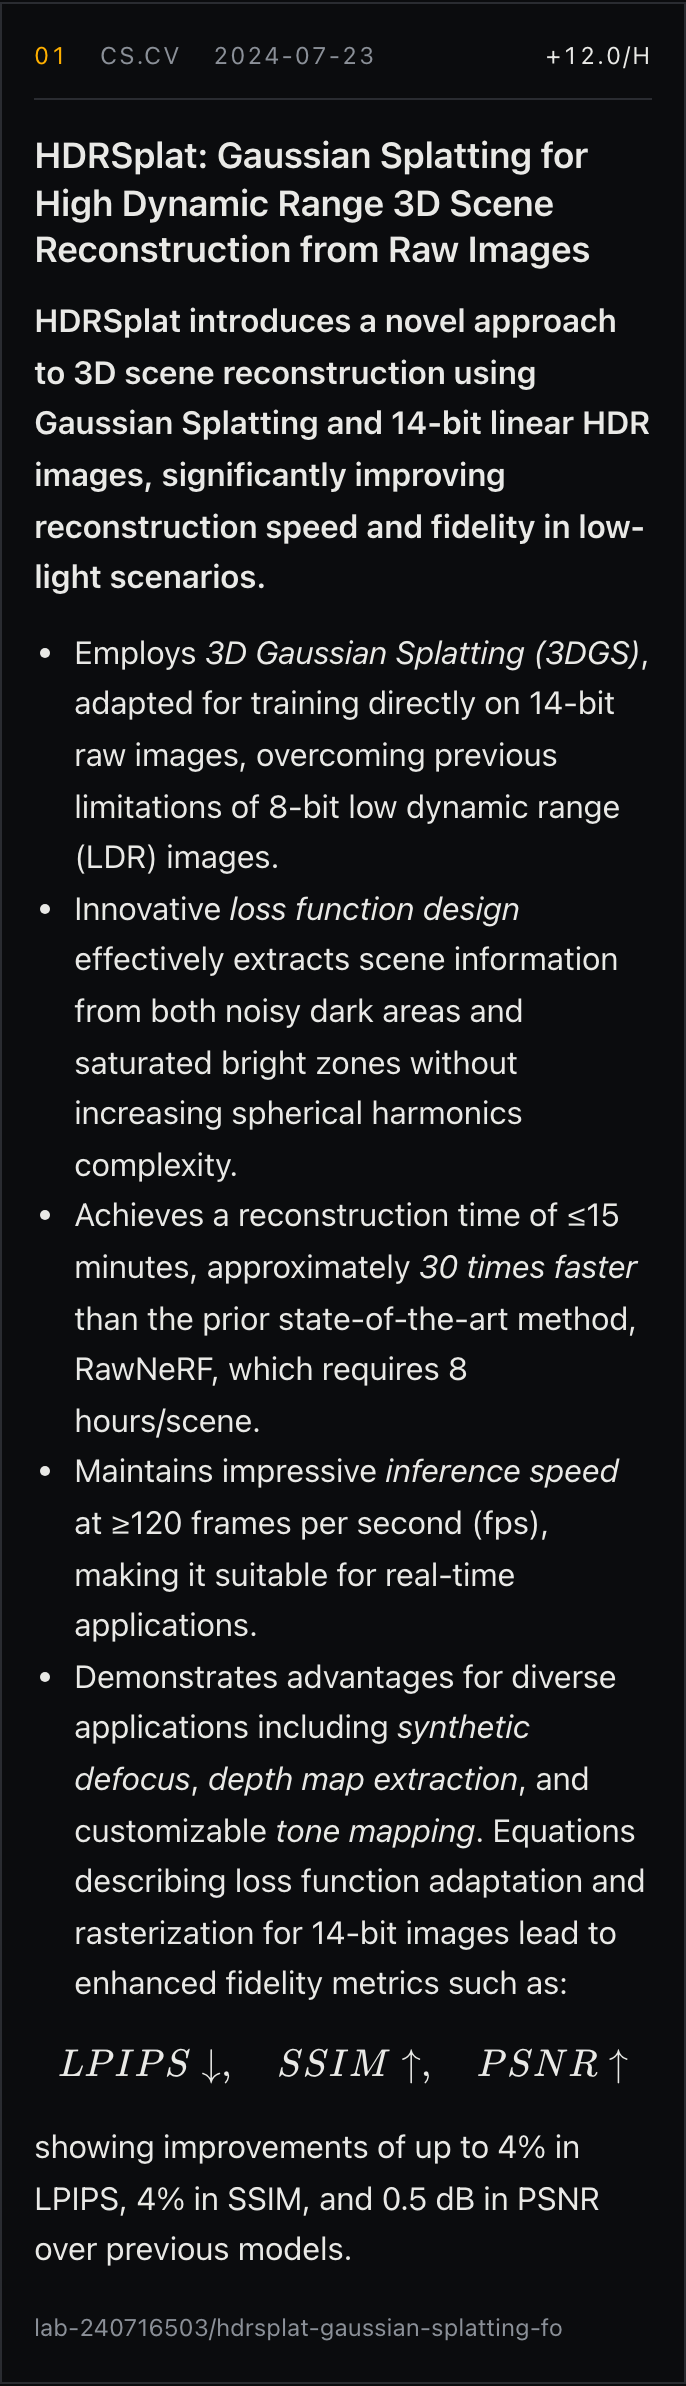
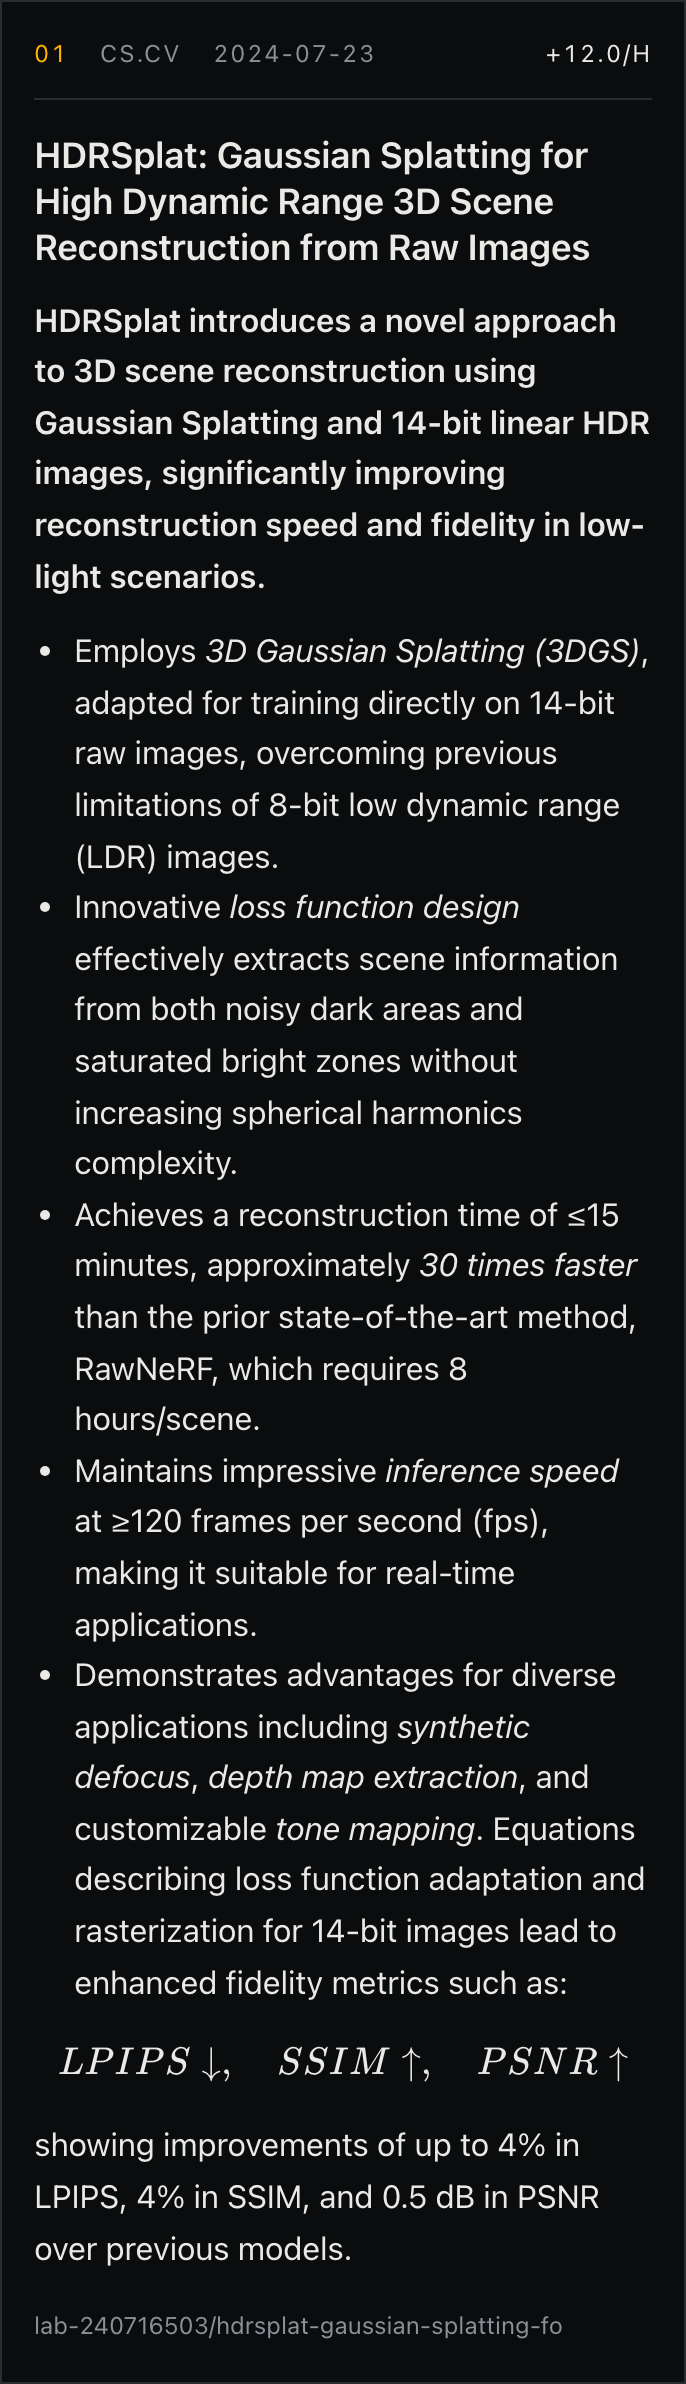
feat(ranking): point at the live API, empty-window fallback, null-safe stats, phone controls
- Production default VITE_API_BASE_URL is the Cloud Run service.
- Most stars always asks for window=all (the window control is disabled).
- Empty windowed results offer 'Show all time'; hourly_rate may be null.
- Phone layout: legends above full-width option grids.
- e2e: ranking spec (mock) and live spec (E2E_API=live / E2E_BASE_URL).

diff --git a/e2e/ranking.spec.js b/e2e/ranking.spec.js
@@ -1,0 +1,92 @@
+// F5: ranking controls against the mock API.
+import { test, expect } from '@playwright/test';
+import { openPage } from './helpers';
+
+const apiRequest = (page) => page.waitForRequest((r) => r.url().includes('/top_papers'));
+const params = (req) => Object.fromEntries(new URL(req.url()).searchParams);
+const ranks = (page) => page.locator('.card .rank').allTextContents();
+
+test('default ranking is trending + 30d and loads page 1', async ({ browser }) => {
+  const { context, page, errors } = await openPage(browser);
+  const req = apiRequest(page);
+  await page.goto('/');
+  expect(params(await req)).toMatchObject({ sort: 'trending', window: 'month', page: '1', per_page: '10' });
+  await expect(page.getByRole('radio', { name: 'Trending' })).toBeChecked();
+  await expect(page.getByRole('radio', { name: '30d' })).toBeChecked();
+  await expect(page.locator('.card')).toHaveCount(10);
+  expect((await ranks(page))[0]).toBe('01');
+  expect(errors).toEqual([]);
+  await context.close();
+});
+
+test('changing sort updates the URL, refetches and resets the list; back restores', async ({ browser }) => {
+  const { context, page, errors } = await openPage(browser);
+  await page.goto('/');
+  await expect(page.locator('.card')).toHaveCount(10);
+  await page.mouse.wheel(0, 20000);
+  await expect(page.locator('.card')).toHaveCount(20);
+
+  const req = apiRequest(page);
+  await page.getByText('Stars gained', { exact: true }).click();
+  expect(params(await req)).toMatchObject({ sort: 'gained', window: 'month', page: '1' });
+  await expect(page).toHaveURL(/\?sort=gained&window=month$/);
+  await expect(page.locator('.card')).toHaveCount(10);
+  expect((await ranks(page))[0]).toBe('01');
+  expect(await page.evaluate(() => window.scrollY)).toBeLessThan(2000);
+
+  await page.goBack();
+  await expect(page).toHaveURL(/\/$/);
+  await expect(page.getByRole('radio', { name: 'Trending' })).toBeChecked();
+  await expect(page.locator('.card')).toHaveCount(10);
+  expect(errors).toEqual([]);
+  await context.close();
+});
+
+test('keyboard: arrow keys move through sorts; window is disabled for Most stars', async ({ browser }) => {
+  const { context, page } = await openPage(browser);
+  await page.goto('/');
+  await page.getByRole('radio', { name: 'Trending' }).focus();
+  const req = apiRequest(page);
+  await page.keyboard.press('ArrowRight');
+  await expect(page.getByRole('radio', { name: 'Most stars' })).toBeChecked();
+  expect(params(await req)).toMatchObject({ sort: 'stars', window: 'all' });
+  await expect(page.getByRole('radio', { name: '30d' })).toBeDisabled();
+  await expect(page).toHaveURL(/\?sort=stars&window=month$/);
+  await context.close();
+});
+
+test('deep link restores controls', async ({ browser }) => {
+  const { context, page } = await openPage(browser);
+  const req = apiRequest(page);
+  await page.goto('/?sort=new&window=all');
+  expect(params(await req)).toMatchObject({ sort: 'new', window: 'all' });
+  await expect(page.getByRole('radio', { name: 'Newest' })).toBeChecked();
+  await expect(page.getByRole('radio', { name: 'All' })).toBeChecked();
+  await context.close();
+});
+
+test('error state offers retry', async ({ browser }) => {
+  const { context, page } = await openPage(browser);
+  await page.route('**/top_papers**', (r) => r.fulfill({ status: 500, contentType: 'application/json', body: '{"error":"boom"}' }));
+  await page.goto('/');
+  await expect(page.getByRole('status')).toContainText('Could not load papers (HTTP 500: boom)');
+  await page.unroute('**/top_papers**');
+  await page.getByRole('button', { name: 'Retry' }).click();
+  await expect(page.locator('.card')).toHaveCount(10);
+  await context.close();
+});
+
+test('empty windowed result offers all time', async ({ browser }) => {
+  const { context, page } = await openPage(browser);
+  await page.route('**/top_papers**', (r) => {
+    const q = new URL(r.request().url()).searchParams;
+    if (q.get('window') === 'all') return r.fallback();
+    return r.fulfill({ contentType: 'application/json', body: JSON.stringify({ page: 1, per_page: 10, sort: q.get('sort'), window: q.get('window'), total: 0, repos: [] }) });
+  });
+  await page.goto('/');
+  await expect(page.getByRole('status')).toContainText('No papers in this window.');
+  await page.getByRole('button', { name: 'Show all time' }).click();
+  await expect(page).toHaveURL(/\?window=all$|\?sort=trending&window=all$/);
+  await expect(page.locator('.card')).toHaveCount(10);
+  await context.close();
+});

diff --git a/e2e/live.spec.js b/e2e/live.spec.js
@@ -1,0 +1,46 @@
+// Live API (or the deployed site): data loads, ranking switches work, LaTeX
+// renders, at 375 px and 1280 px in both themes. Screenshots go to
+// docs/screenshots/<target>-<width>-<theme>.png.
+import { test, expect } from '@playwright/test';
+import { VIEWPORTS, openPage } from './helpers';
+
+const target = process.env.E2E_BASE_URL ? 'deployed' : 'live';
+const katexErrors = (page) => page.locator('.card .katex-error, .card .katex [style*="color:#cc0000"]').count();
+
+for (const theme of ['light', 'dark']) {
+  for (const [name, viewport] of Object.entries(VIEWPORTS)) {
+    test(`${target} ${name} ${theme}`, async ({ browser }) => {
+      const { context, page, errors } = await openPage(browser, { theme, viewport });
+
+      // Default view: trending + 30d. With 2024 seed data this is empty and
+      // offers all time; once the jobs run it has cards. Accept either.
+      await page.goto('/');
+      const status = page.getByRole('status');
+      await expect(page.locator('.card').first().or(status.getByRole('button', { name: 'Show all time' }))).toBeVisible({ timeout: 30_000 });
+      if (await status.getByRole('button', { name: 'Show all time' }).isVisible()) {
+        await page.screenshot({ path: `docs/screenshots/${target}-${name}-${theme}-empty-window.png` });
+        await status.getByRole('button', { name: 'Show all time' }).click();
+      }
+      await expect(page.locator('.card')).toHaveCount(10, { timeout: 30_000 });
+      // Capture before any long scroll: headless captures after scrolling
+      // back to the top come out blank above the fold.
+      await page.screenshot({ path: `docs/screenshots/${target}-${name}-${theme}.png` });
+
+      for (const sort of ['Most stars', 'Stars gained', 'Newest', 'Trending']) {
+        const first = await page.locator('.card-title').first().textContent();
+        await page.getByText(sort, { exact: true }).click();
+        await expect(page.locator('.card')).toHaveCount(10, { timeout: 30_000 });
+        if (sort !== 'Trending') await expect(page.locator('.card-title').first()).not.toHaveText(first);
+      }
+      await page.mouse.wheel(0, 30000);
+      await expect(page.locator('.card')).toHaveCount(20, { timeout: 30_000 });
+
+      expect(await page.locator('.card .katex').count()).toBeGreaterThan(0);
+      console.log(`[${name} ${theme}] KaTeX error nodes in 20 cards: ${await katexErrors(page)}`);
+      expect(await page.evaluate(() => document.documentElement.scrollWidth - window.innerWidth)).toBeLessThanOrEqual(0);
+
+      expect(errors).toEqual([]);
+      await context.close();
+    });
+  }
+}

diff --git a/playwright.config.js b/playwright.config.js
@@ -1,12 +1,23 @@
 import { defineConfig, devices } from '@playwright/test';
 
 // Headless Chromium only (Eric uses this machine while tests run).
-// E2E_BASE_URL=https://frontier-beat.github.io runs the suite against a
-// deployed site instead of the local dev server + mock API.
+//   npm run test:e2e                        mock API: fixtures, cards, ranking
+//   E2E_API=live npm run test:e2e           dev server against the live API
+//   E2E_BASE_URL=https://frontier-beat.github.io npm run test:e2e   deployed site
+export const LIVE_API = 'https://api-rcvqmjv3ua-ue.a.run.app';
 const external = process.env.E2E_BASE_URL;
+const live = Boolean(external || process.env.E2E_API === 'live');
+
+const devServer = (apiBase) => ({
+  command: 'npx vite --port 5173 --strictPort',
+  url: 'http://localhost:5173',
+  reuseExistingServer: false,
+  env: { VITE_API_BASE_URL: apiBase },
+});
 
 export default defineConfig({
   testDir: 'e2e',
+  ...(live ? { testMatch: 'live.spec.js' } : { testIgnore: 'live.spec.js' }),
   timeout: 120_000,
   workers: 1,
   reporter: 'list',
@@ -15,8 +26,8 @@ export default defineConfig({
     headless: true,
     ...devices['Desktop Chrome'],
   },
-  webServer: external ? undefined : [
+  webServer: external ? undefined : live ? [devServer(LIVE_API)] : [
     { command: 'node scripts/mock-api.mjs', url: 'http://localhost:8787/health', reuseExistingServer: false },
-    { command: 'npx vite --port 5173 --strictPort', url: 'http://localhost:5173', reuseExistingServer: false, env: { VITE_API_BASE_URL: 'http://localhost:8787' } },
+    devServer('http://localhost:8787'),
   ],
 });

diff --git a/src/App.jsx b/src/App.jsx
@@ -6,7 +6,7 @@ import lightLogo from './assets/light-logo.png';
 import darkLogo from './assets/dark-logo.png';
 import PaperList from './components/PaperList';
 import RankingControls from './components/RankingControls';
-import { DEFAULT_SORT, DEFAULT_WINDOW, SORTS, WINDOWS } from './api';
+import { DEFAULT_SORT, DEFAULT_WINDOW, SORTS, WINDOWS, effectiveWindow } from './api';
 
 const FixturePage = lazy(() => import('./components/FixturePage'));
 
@@ -56,6 +56,7 @@ export default function App() {
   const [dark, toggleTheme] = useTheme();
   const [ranking, setRanking] = useState(readRanking);
   const fixtures = new URLSearchParams(window.location.search).has('fixtures');
+  const apiWindow = effectiveWindow(ranking.sort, ranking.window);
 
   useEffect(() => {
     const onPop = () => setRanking(readRanking());
@@ -83,7 +84,12 @@ export default function App() {
         ) : (
           <>
             <RankingControls sort={ranking.sort} window={ranking.window} onChange={changeRanking} />
-            <PaperList key={`${ranking.sort}:${ranking.window}`} sort={ranking.sort} window={ranking.window} />
+            <PaperList
+              key={`${ranking.sort}:${apiWindow}`}
+              sort={ranking.sort}
+              window={apiWindow}
+              onShowAll={apiWindow === 'all' ? undefined : () => changeRanking({ sort: ranking.sort, window: 'all' })}
+            />
           </>
         )}
       </div>

diff --git a/src/App.css b/src/App.css
@@ -120,6 +120,9 @@ a:hover {
 
 .segments {
   display: flex;
+  gap: 1px; /* hairlines between options come from the background */
+  border: 1px solid var(--line);
+  background: var(--line);
 }
 
 .segments input {
@@ -131,22 +134,23 @@ a:hover {
 
 .segments span,
 .button {
-  display: inline-block;
+  display: block;
   padding: 6px 10px;
   border: 1px solid var(--line);
-  background: none;
+  background: var(--bg);
   color: inherit;
   font-family: inherit;
+  text-align: center;
+  white-space: nowrap;
   cursor: pointer;
 }
 
-.segments label + label span {
-  border-left: 0;
+.segments span {
+  border: 0;
 }
 
 .segments input:checked + span {
   background: var(--fg);
-  border-color: var(--fg);
   color: var(--bg);
 }
 
@@ -161,6 +165,10 @@ a:hover {
 
 .segmented:disabled span {
   cursor: not-allowed;
+}
+
+.button {
+  display: inline-block;
 }
 
 .button.icon {
@@ -292,6 +300,26 @@ a:hover {
 
   .logo {
     height: 28px;
+  }
+
+  /* Controls: legend above, options fill the column. */
+  .segmented {
+    display: block;
+    width: 100%;
+  }
+
+  .segmented legend {
+    float: none;
+    margin-bottom: 6px;
+  }
+
+  .segments {
+    display: grid;
+    grid-template-columns: repeat(4, 1fr);
+  }
+
+  .segmented:first-child .segments {
+    grid-template-columns: repeat(2, 1fr);
   }
 
   /* Phone: only the stat that matches the current sort. */

diff --git a/src/components/PaperCard.jsx b/src/components/PaperCard.jsx
@@ -2,6 +2,8 @@ import { Summary, Title } from './Markdown';
 import { WINDOWS } from '../api';
 
 const fmt = new Intl.NumberFormat('en-US');
+const fmtRate = (r) => (r >= 100 ? fmt.format(Math.round(r)) : r.toFixed(1));
+const isNum = (v) => typeof v === 'number' && Number.isFinite(v);
 const day = (iso) => (iso ? String(iso).slice(0, 10) : null);
 
 // Departure-board strip: rank, category, date on the left; the numbers on
@@ -9,9 +11,9 @@ const day = (iso) => (iso ? String(iso).slice(0, 10) : null);
 function Strip({ paper, rank, sort, window }) {
   const windowLabel = WINDOWS.find((w) => w.value === window)?.label;
   const stats = [
-    paper.star_count != null && { key: 'stars', text: `${fmt.format(paper.star_count)} stars` },
-    paper.hourly_rate > 0 && { key: 'trending', text: `+${paper.hourly_rate.toFixed(1)}/h` },
-    paper.stars_gained != null && { key: 'gained', text: `+${fmt.format(paper.stars_gained)} ${windowLabel ?? ''}`.trim() },
+    isNum(paper.star_count) && { key: 'stars', text: `${fmt.format(paper.star_count)} stars` },
+    isNum(paper.hourly_rate) && paper.hourly_rate > 0 && { key: 'trending', text: `+${fmtRate(paper.hourly_rate)}/h` },
+    isNum(paper.stars_gained) && { key: 'gained', text: `+${fmt.format(paper.stars_gained)} ${windowLabel ?? ''}`.trim() },
   ].filter(Boolean);
   return (
     <div className="strip">

diff --git a/src/components/PaperList.jsx b/src/components/PaperList.jsx
@@ -4,7 +4,7 @@ import { PER_PAGE, fetchPapers } from '../api';
 
 // Mounted with key={sort + window}, so a new ranking starts from a fresh
 // list and the previous list's in-flight request is aborted on unmount.
-export default function PaperList({ sort, window }) {
+export default function PaperList({ sort, window, onShowAll }) {
   const [papers, setPapers] = useState([]);
   const [page, setPage] = useState(1);
   const [attempt, setAttempt] = useState(0);
@@ -56,7 +56,15 @@ export default function PaperList({ sort, window }) {
             <button type="button" className="button" onClick={() => setAttempt((a) => a + 1)}>Retry</button>
           </>
         )}
-        {status === 'done' && (papers.length ? `End of list · ${papers.length} papers` : 'No papers in this window. Try a longer one.')}
+        {status === 'done' && papers.length > 0 && `End of list · ${papers.length} papers`}
+        {status === 'done' && papers.length === 0 && (
+          onShowAll ? (
+            <>
+              No papers in this window.{' '}
+              <button type="button" className="button" onClick={onShowAll}>Show all time</button>
+            </>
+          ) : 'No papers yet.'
+        )}
       </div>
     </section>
   );

diff --git a/src/api.js b/src/api.js
@@ -1,5 +1,6 @@
 // Client for GET /top_papers (contracts.md "API contract").
-export const API_BASE_URL = (import.meta.env.VITE_API_BASE_URL || 'https://api.frontier-beat.site').replace(/\/+$/, '');
+// Production default is the Cloud Run service; tests and dev override it.
+export const API_BASE_URL = (import.meta.env.VITE_API_BASE_URL || 'https://api-rcvqmjv3ua-ue.a.run.app').replace(/\/+$/, '');
 
 export const SORTS = [
   { value: 'trending', label: 'Trending' },
@@ -19,8 +20,10 @@ export const DEFAULT_SORT = 'trending';
 export const DEFAULT_WINDOW = 'month';
 export const PER_PAGE = 10;
 
-// `stars` is a current total, so a time window does not change it.
+// `stars` is a current total, so a time window does not change it. The UI
+// keeps the chosen window for the other sorts but asks the API for `all`.
 export const sortUsesWindow = (sort) => sort !== 'stars';
+export const effectiveWindow = (sort, window) => (sortUsesWindow(sort) ? window : 'all');
 
 export async function fetchPapers({ sort, window, page, signal }) {
   const params = new URLSearchParams({ sort, window, page: String(page), per_page: String(PER_PAGE) });
